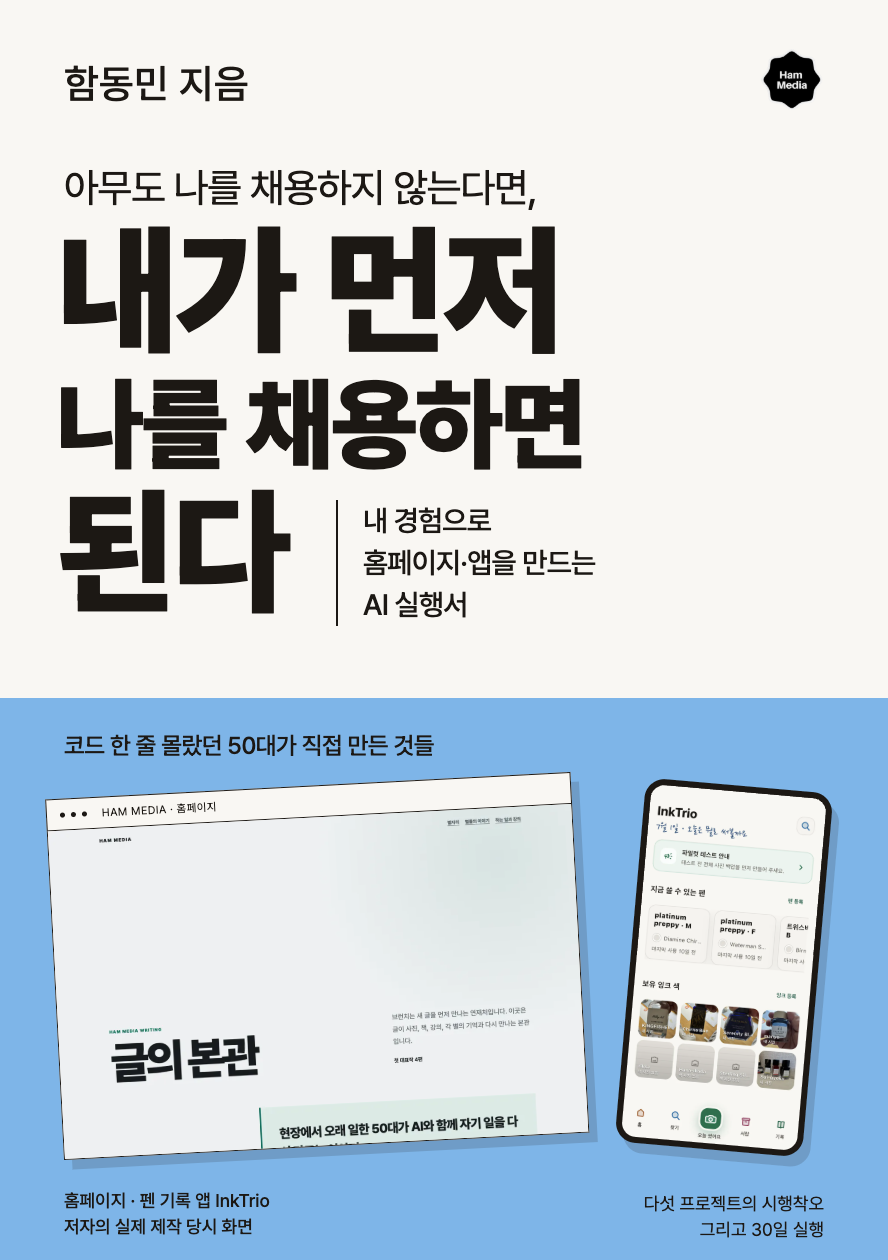
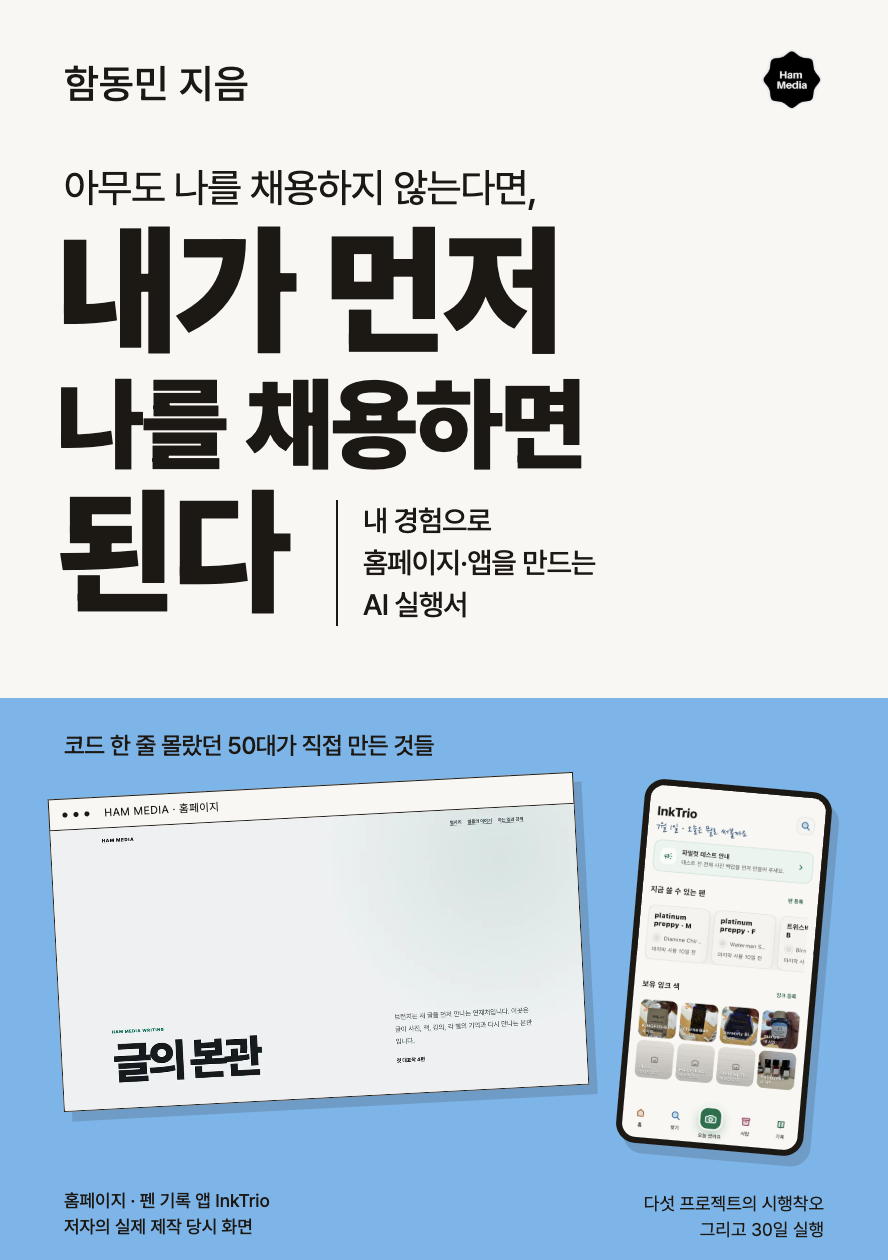
fix: 승인된 책 표지 캡처 크롭과 공유 이미지 반영

Changed region(s): [[0.0608, 0.619, 0.6689, 0.9286], [0.1216, 0.619, 0.2432, 0.65], [0.0304, 0.65, 0.0608, 0.7429]]

diff --git a/book/index.html b/book/index.html
@@ -7,12 +7,12 @@
 <meta property="og:title" content="아무도 나를 채용하지 않는다면, 내가 먼저 나를 채용하면 된다">
 <meta property="og:description" content="함동민의 바이브 코딩 실행서. 내 경험으로 홈페이지·앱을 만드는 책. 무료 사례와 실습을 먼저 확인하고, 책 전체로 내 일 하나를 끝까지.">
 <meta property="og:url" content="https://hammedia.co.kr/book/">
-<meta property="og:image" content="https://hammedia.co.kr/book/assets/og-book.png?v=20260907">
+<meta property="og:image" content="https://hammedia.co.kr/book/assets/og-book.png?v=20260907-crop1">
 <meta property="og:image:alt" content="아무도 나를 채용하지 않는다면, 내가 먼저 나를 채용하면 된다. 함동민 지음.">
 <meta property="og:image:width" content="1200">
 <meta property="og:image:height" content="630">
 <meta name="twitter:card" content="summary_large_image">
-<meta name="twitter:image" content="https://hammedia.co.kr/book/assets/og-book.png?v=20260907">
+<meta name="twitter:image" content="https://hammedia.co.kr/book/assets/og-book.png?v=20260907-crop1">
 <link rel="canonical" href="https://hammedia.co.kr/book/">
 
 <title>아무도 나를 채용하지 않는다면, 내가 먼저 나를 채용하면 된다 — 바이브 코딩 실행서 | HAM MEDIA</title>
@@ -36,8 +36,8 @@
     <p class="hero-assurance">무료: 8장 전체 · 여는 글과 1장 · 네 줄 요청서 실습 &nbsp;|&nbsp; 책 전체 9,900원 (9월 30일까지)</p>
   </div>
   <figure class="hero-book">
-    <a class="cover-link" href="/book/assets/cover.png?v=20260907" target="_blank" rel="noopener" aria-label="책 표지 크게 보기, 새 창">
-      <img src="/book/assets/cover.png?v=20260907" width="888" height="1260" alt="아무도 나를 채용하지 않는다면, 내가 먼저 나를 채용하면 된다. 함동민 지음. 실제 홈페이지와 InkTrio 제작 화면을 담은 표지." fetchpriority="high">
+    <a class="cover-link" href="/book/assets/cover.png?v=20260907-crop1" target="_blank" rel="noopener" aria-label="책 표지 크게 보기, 새 창">
+      <img src="/book/assets/cover.png?v=20260907-crop1" width="888" height="1260" alt="아무도 나를 채용하지 않는다면, 내가 먼저 나를 채용하면 된다. 함동민 지음. 실제 홈페이지와 InkTrio 제작 화면을 담은 표지." fetchpriority="high">
     </a>
     <figcaption><span>아무도 나를 채용하지 않는다면,<br> 내가 먼저 나를 채용하면 된다</span><a href="/book/preview/">책 미리보기 <span aria-hidden="true">↗</span></a></figcaption>
   </figure>

diff --git a/book/preview/index.html b/book/preview/index.html
@@ -6,7 +6,7 @@
 <meta property="og:title" content="아무도 나를 채용하지 않는다면, 내가 먼저 나를 채용하면 된다 — 무료 미리보기">
 <meta property="og:description" content="아무도 나를 채용하지 않는다면, 내가 먼저 나를 채용하면 된다. 여는 글과 1장 무료 미리보기.">
 <meta property="og:url" content="https://hammedia.co.kr/book/preview/">
-<meta property="og:image" content="https://hammedia.co.kr/book/assets/og-book.png?v=20260907">
+<meta property="og:image" content="https://hammedia.co.kr/book/assets/og-book.png?v=20260907-crop1">
 <meta property="og:image:width" content="1200">
 <meta property="og:image:height" content="630">
 <meta name="twitter:card" content="summary_large_image">
@@ -210,7 +210,7 @@
     원고 한 장에서 웹북과 PDF를 함께 만듭니다.
   </div>
   <div class="owner-line" id="owner-line" hidden><!--OWNER_LABEL--></div>
-</div><figure class="preview-cover"><img src="/book/assets/cover.png?v=20260907" width="888" height="1260" alt="아무도 나를 채용하지 않는다면, 내가 먼저 나를 채용하면 된다. 함동민 지음." fetchpriority="high"><figcaption>무료 미리보기 · 여는 글과 1장</figcaption></figure></div></header>
+</div><figure class="preview-cover"><img src="/book/assets/cover.png?v=20260907-crop1" width="888" height="1260" alt="아무도 나를 채용하지 않는다면, 내가 먼저 나를 채용하면 된다. 함동민 지음." fetchpriority="high"><figcaption>무료 미리보기 · 여는 글과 1장</figcaption></figure></div></header>
 
 <nav class="toc" aria-label="책 차례"><details open><summary>차례 · 필요한 곳부터 읽기</summary><ol><li><a href="#preview02">여는 글 — 내가 더 이상 쓸모가 없나</a></li><li><a href="#preview03">1부. 당신 잘못이 아닙니다</a></li><li><a href="#preview04">1장. 왜 이력서를 넣어도 연락이 안 올까</a></li><li><a href="#preview05">여기까지가 무료 미리보기입니다</a></li></ol></details></nav>
 
